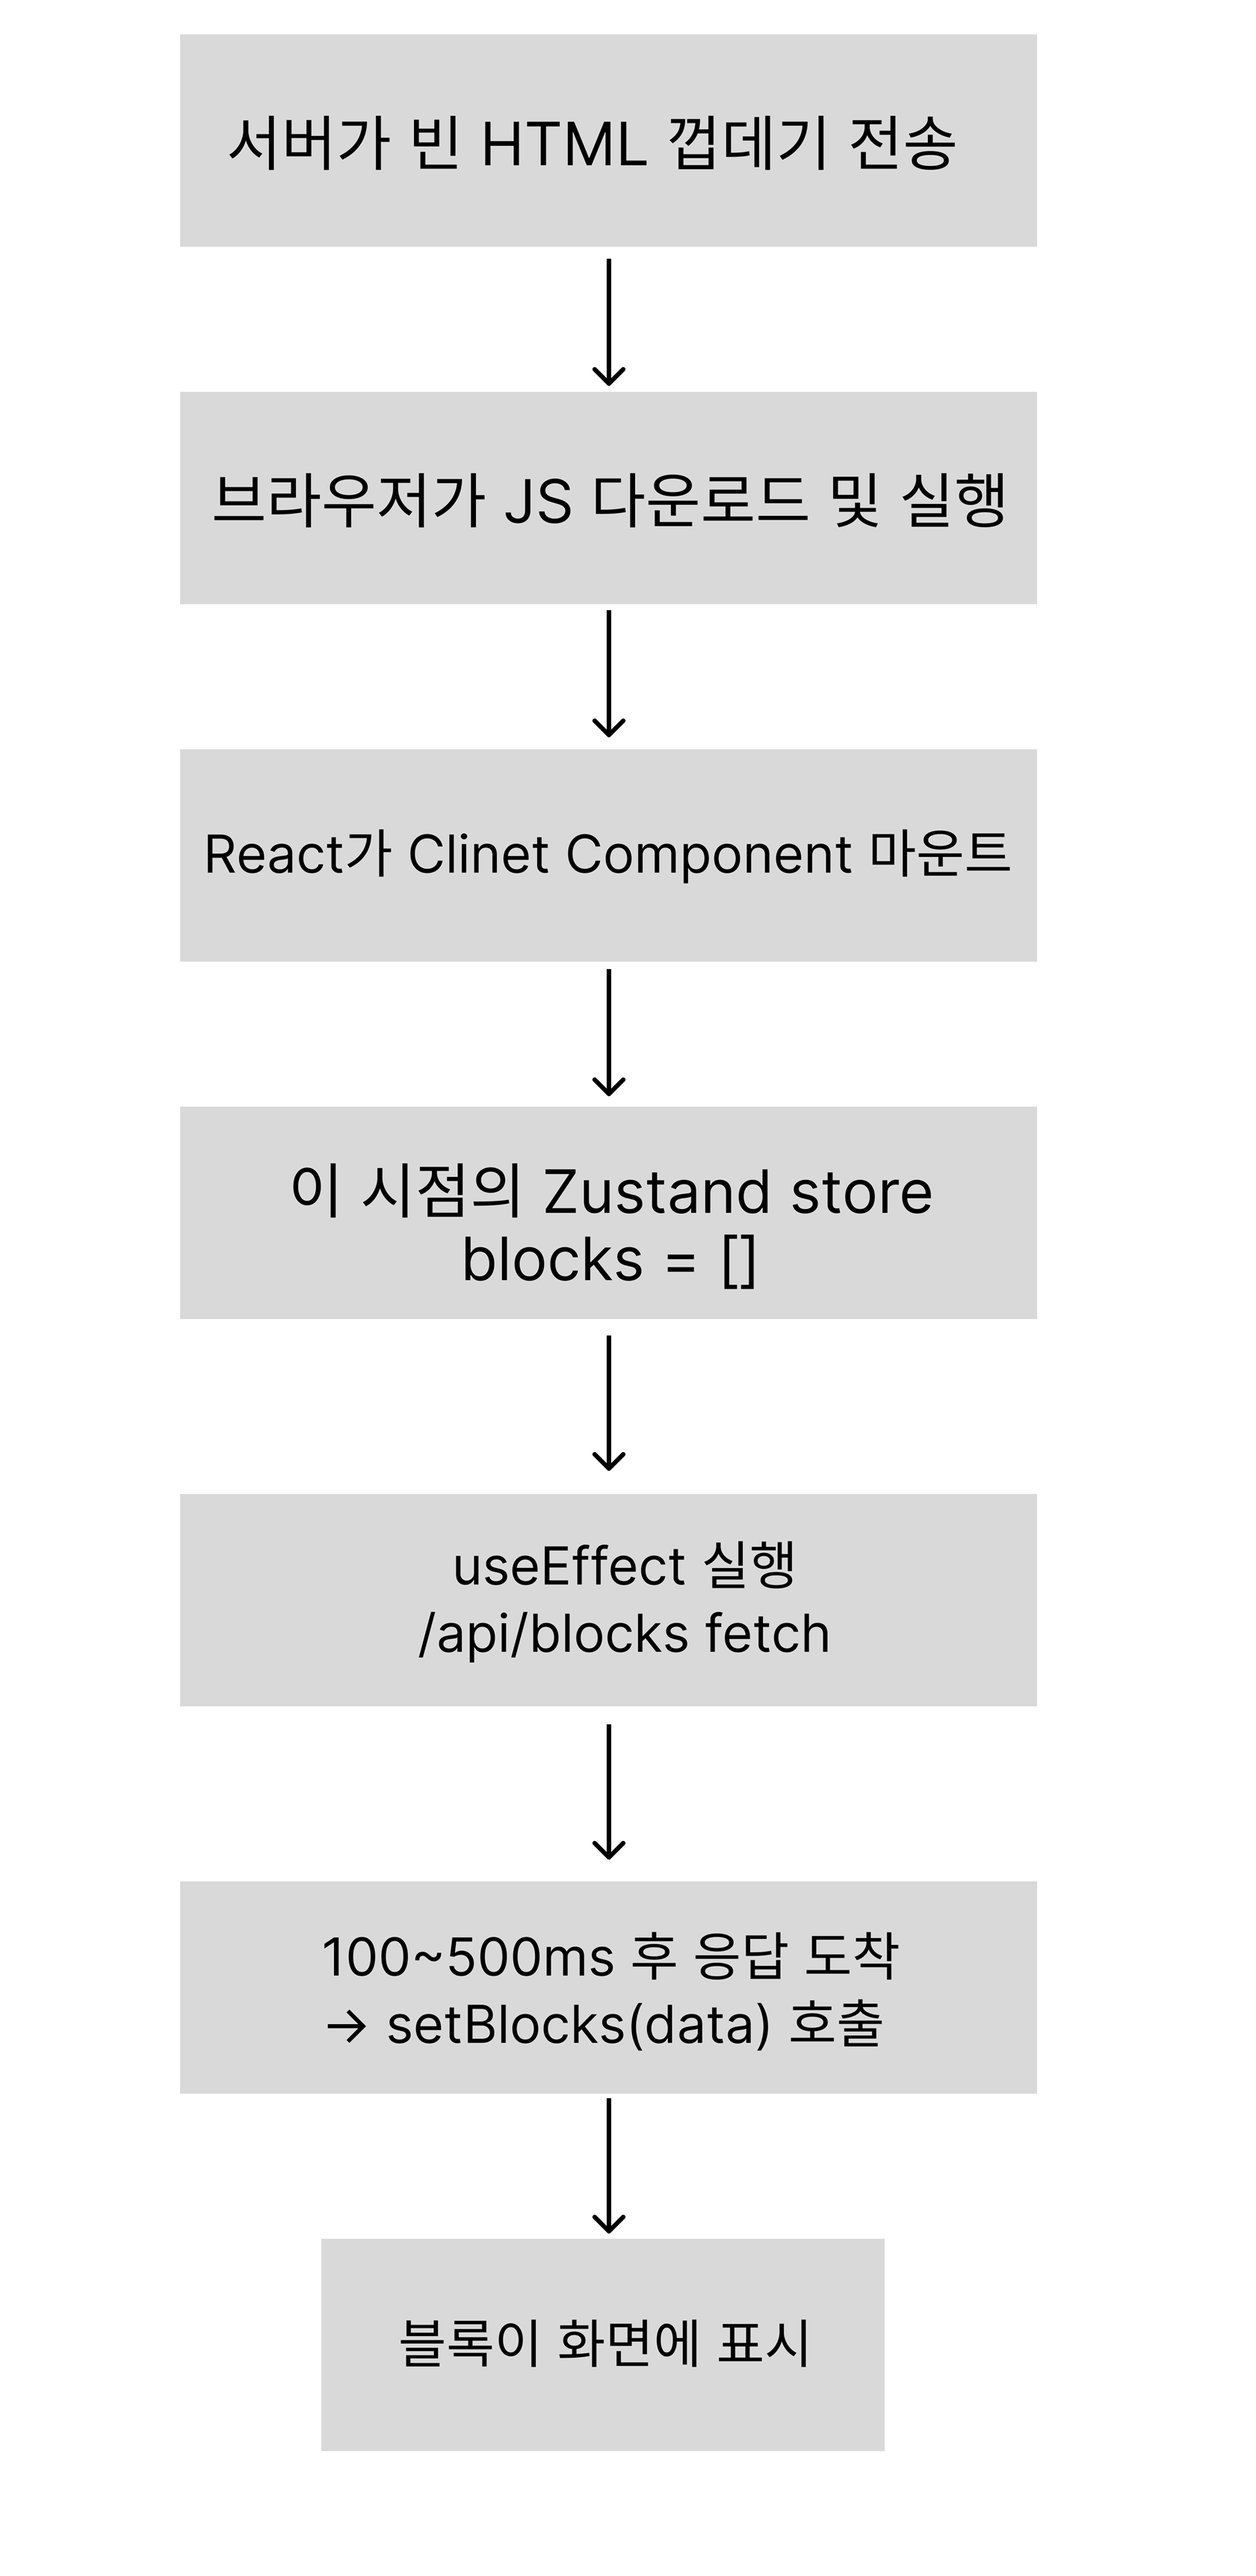
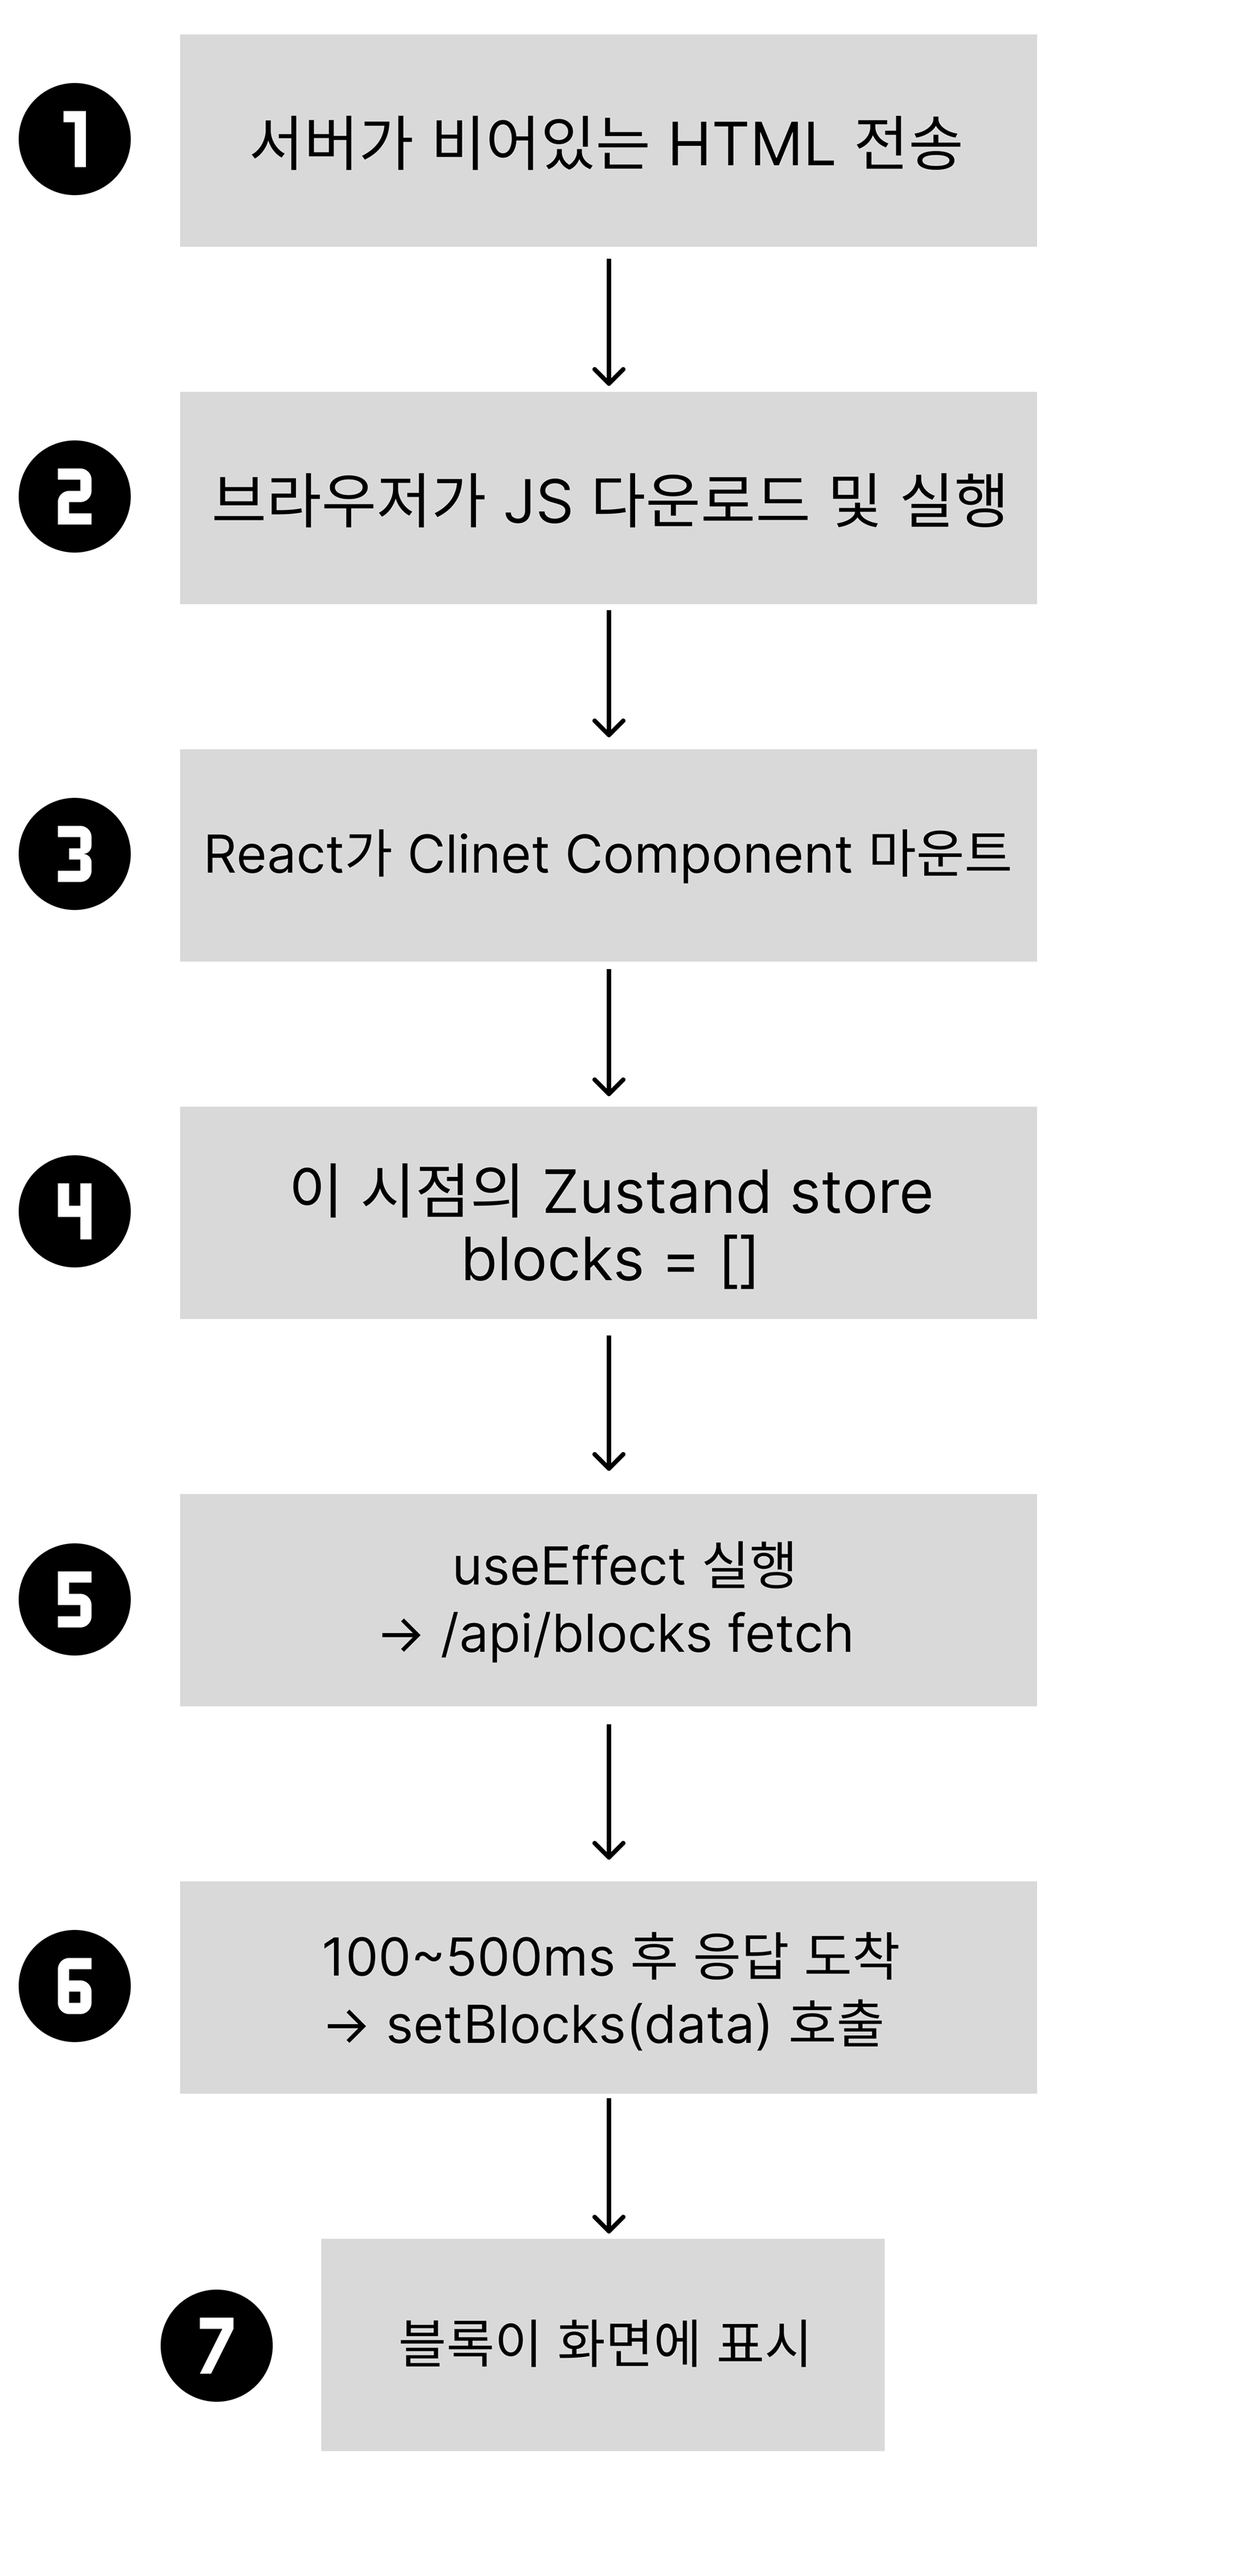
update portfolio

diff --git a/src/pages/BlockmindPage.js b/src/pages/BlockmindPage.js
@@ -81,7 +81,7 @@ function BlockmindPage() {
           </div>
         </div>
 
-        <br/>
+        <br/><br/>
 
         {/* 원인 */}
         <h4 className="text-xl font-bold text-gray-900">원인</h4>
@@ -271,14 +271,11 @@ setPivotIndex: (index) => set({ pivotIndex: index }),`}
 
           <br/>
 
-          <p className="font-bold text-gray-900">4. 서버 적용</p>
+          <p className="font-bold text-gray-900">4. 서버에서 메시지 정제</p>
           <p>
-            클라이언트에서 전달된 pivotIndex를 기반으로 서버에서 메시지를 슬라이싱합니다.
+            클라이언트가 보낸 pivotIndex를 바탕으로 서버 API route에서 <strong className="text-gray-900">메시지를 정제하여 LLM에 전달</strong>했습니다.
           </p>
-          <CodeBlock language="typescript" fileName="app/api/chat/route.ts">
-{`const { messages, systemPrompt, pivotIndex } = await req.json();
-const slicedMessages = sliceMessagesByReset(messages, pivotIndex);`}
-          </CodeBlock>
+          
         </div>
 
         <br/>
@@ -393,10 +390,10 @@ export default function ChatLayout({ children }) {
           <img
             src="/BlockmindCSRrender.png"
             alt="CSR 렌더링 흐름"
-            className="max-w-[12rem] mx-auto rounded"
+            className="max-w-[17rem] mx-auto rounded"
           />
           <p>
-            이런 흐름으로 진행되어 4번과 7번 사이에 블록 컴포넌트에 초기값이 비어있었기 때문에 '블록이 없습니다'가 나타났습니다. 
+            으로 진행되어 4번과 7번 사이에 블록 컴포넌트에 초기값이 비어있었기 때문에 '블록이 없습니다'가 나타났습니다. 
 
           </p>
 
@@ -421,26 +418,6 @@ export default function ChatLayout({ children }) {
           <p>
             서버에서 <code>auth()</code>로 세션을 확인하고 <code>getUserBlocks()</code>로 블록을 조회한 뒤, initialBlocks를 props로 클라이언트 컴포넌트에 전달합니다.
           </p>
-          <CodeBlock language="typescript" fileName="layout.tsx (수정 후)">
-{`export default async function ChatLayout({ children }) {
-  let initialBlocks: Block[] = [];
-
-  try {
-    const session = await auth();
-    if (session?.user?.id) {
-      initialBlocks = await getUserBlocks(session.user.id);
-    }
-  } catch {
-    // 서버 데이터 실패 시 빈 배열 → 클라이언트 fallback이 처리
-  }
-
-  return (
-    <ClientChatLayout initialBlocks={initialBlocks}>
-      {children}
-    </ClientChatLayout>
-  );
-}`}
-          </CodeBlock>
 
           <p className="font-bold text-gray-900">2. Zustand에 동기 주입</p>
           <p>
